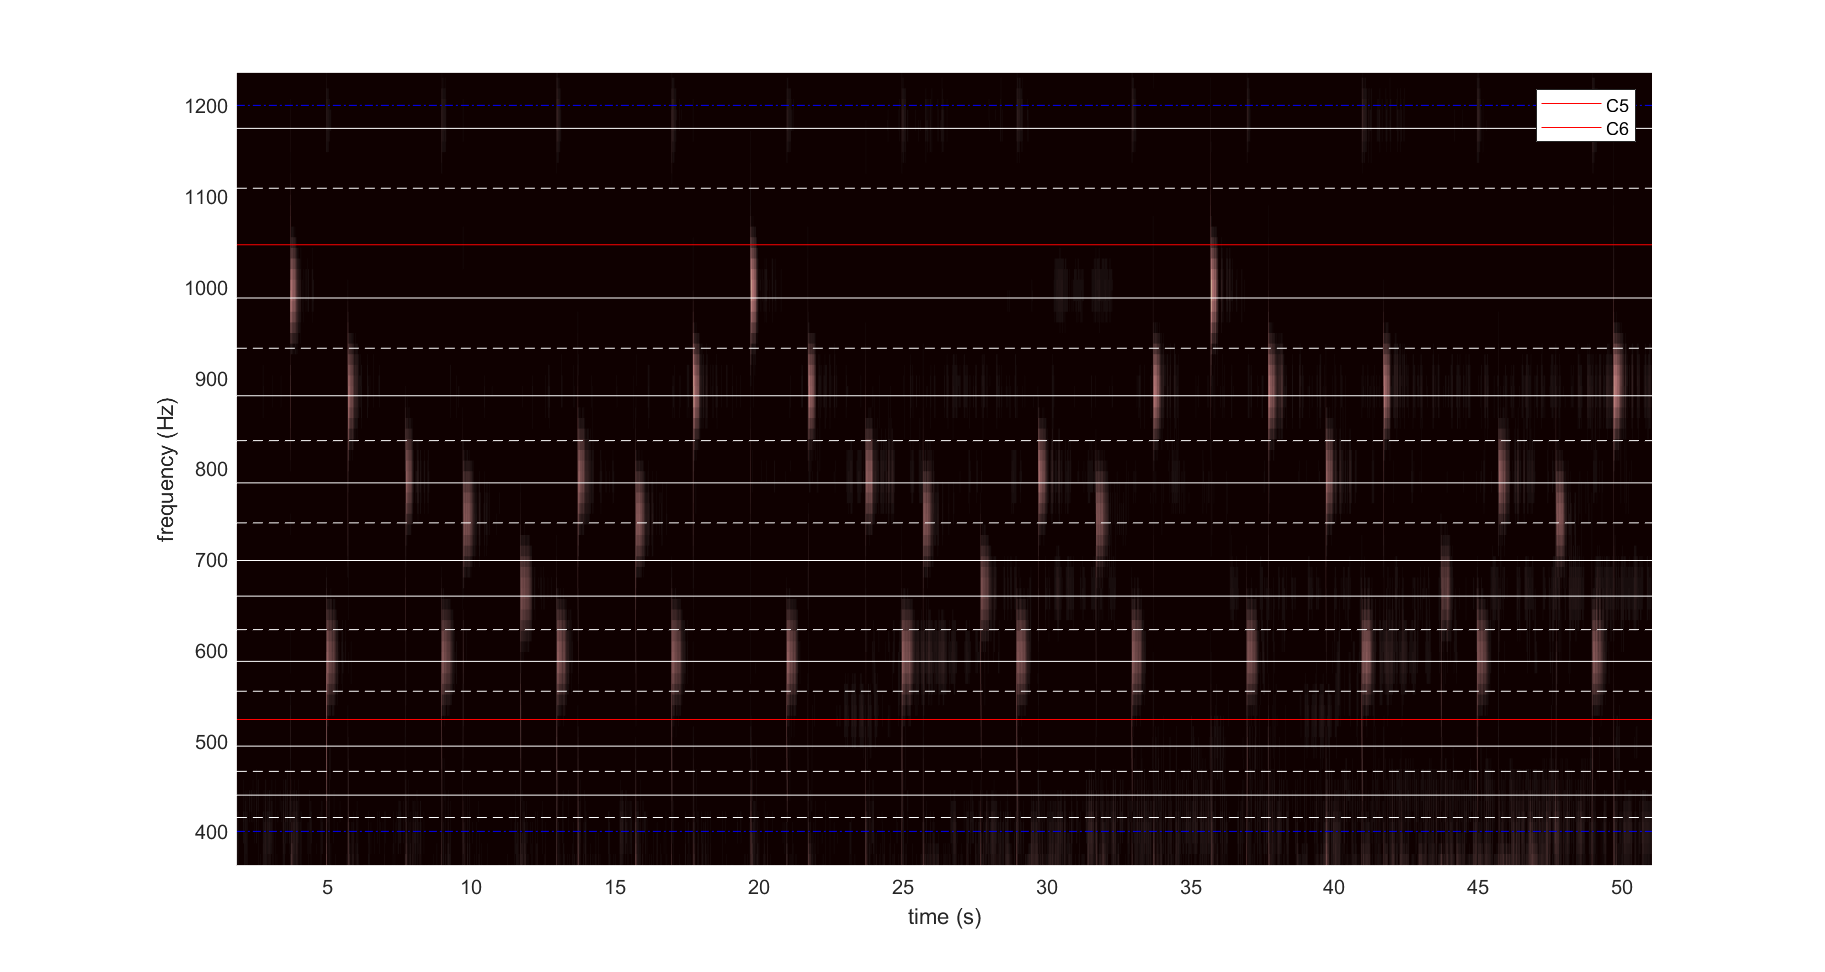
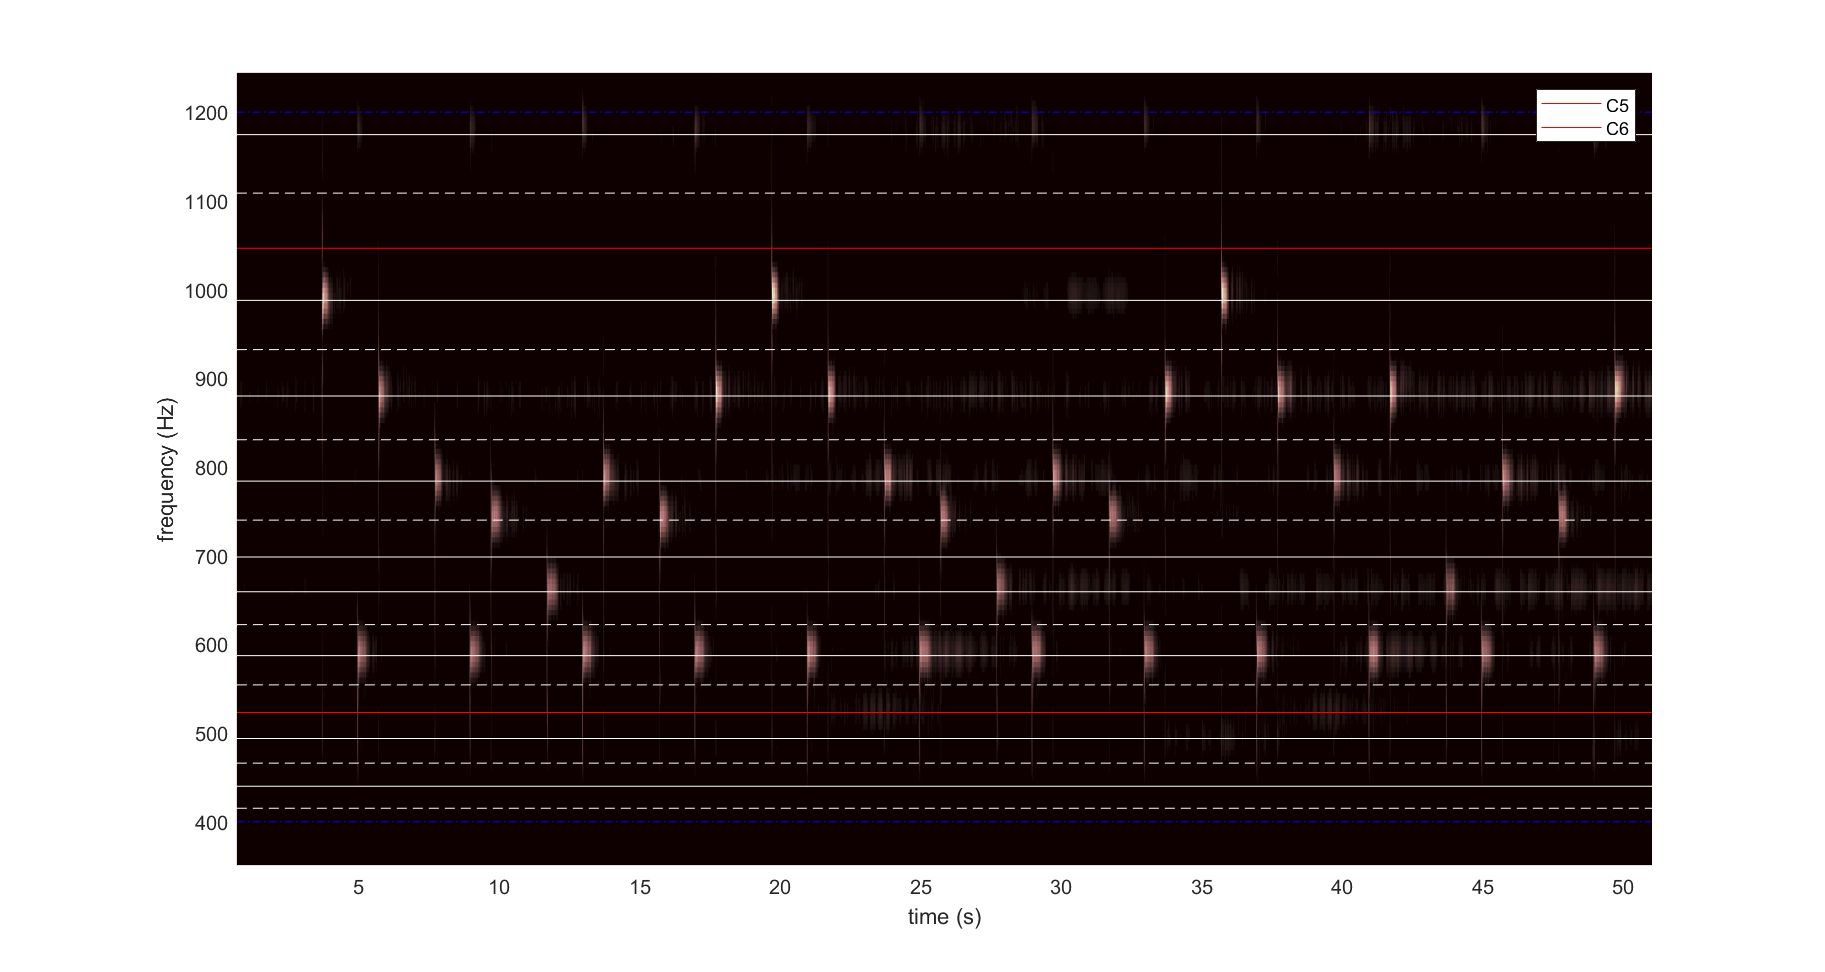
add filtering and adjust parameters

diff --git a/my_spectrogram.m b/my_spectrogram.m
@@ -2,12 +2,14 @@
 clear
 [x,Fs] = audioread('winter.wav');
 x = x(:,1); % keep one channel only
+x = highpass(x,500,Fs);
+% sound(x,Fs)
 
 %%
-M = 1024;
-L = 255;
+M = 2048;
+L = 1024;
 g = hamming(M);
-Ndft = 4096;
+Ndft = 8192;
 
 [s,f,t] = spectrogram(x,g,L,Ndft,Fs);
 

diff --git a/readme.md b/readme.md
@@ -13,7 +13,7 @@ This Matlab program will plot the spectrogram with reference lines of notes. It 
 ## Tips
 
 - Use “audioread” function to import the audio file. Use “x = x(1:10*Fs,1);” to cut out the first 10 seconds of the sound. If the sound is two channel, only one channel is needed. 
-- Use “highpass” “lowpass” “bandpass” function to pick up your interested frequencies and eliminate irrelevant ones, e.g. the drums. Use “sound(x,Fs)” to play the sound. 
+- Use “highpass” “lowpass” “bandpass” function to pick up your interested frequencies and eliminate irrelevant ones, e.g. the low-frequency drums. Use “sound(x,Fs)” to play the sound. 
 
 - Use “spectrogram” function to perform the short-time Fourier transform. Check the Matlab documentation for setting the parameters. 
 - Plot an initial spectrogram to find your interested frequency range, set “fmin” and “fmax” for the range of reference lines of notes.
